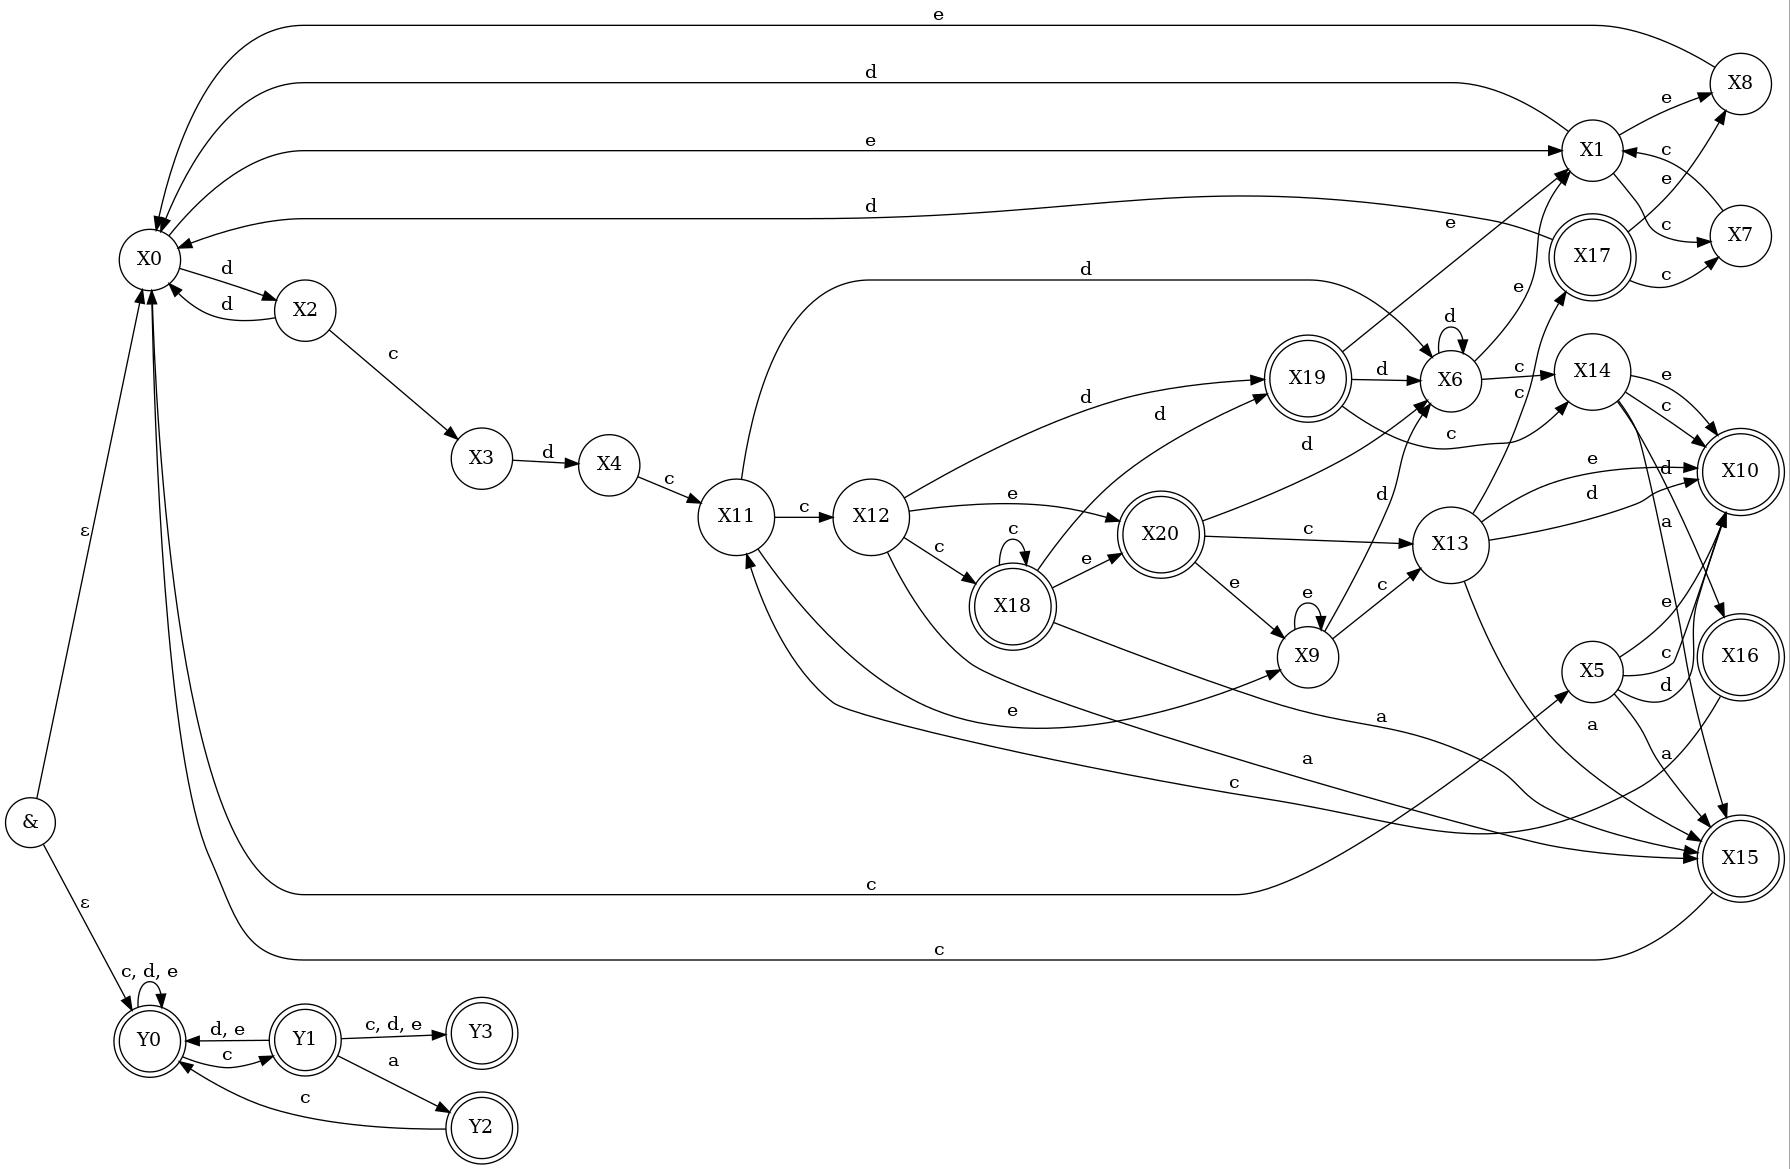
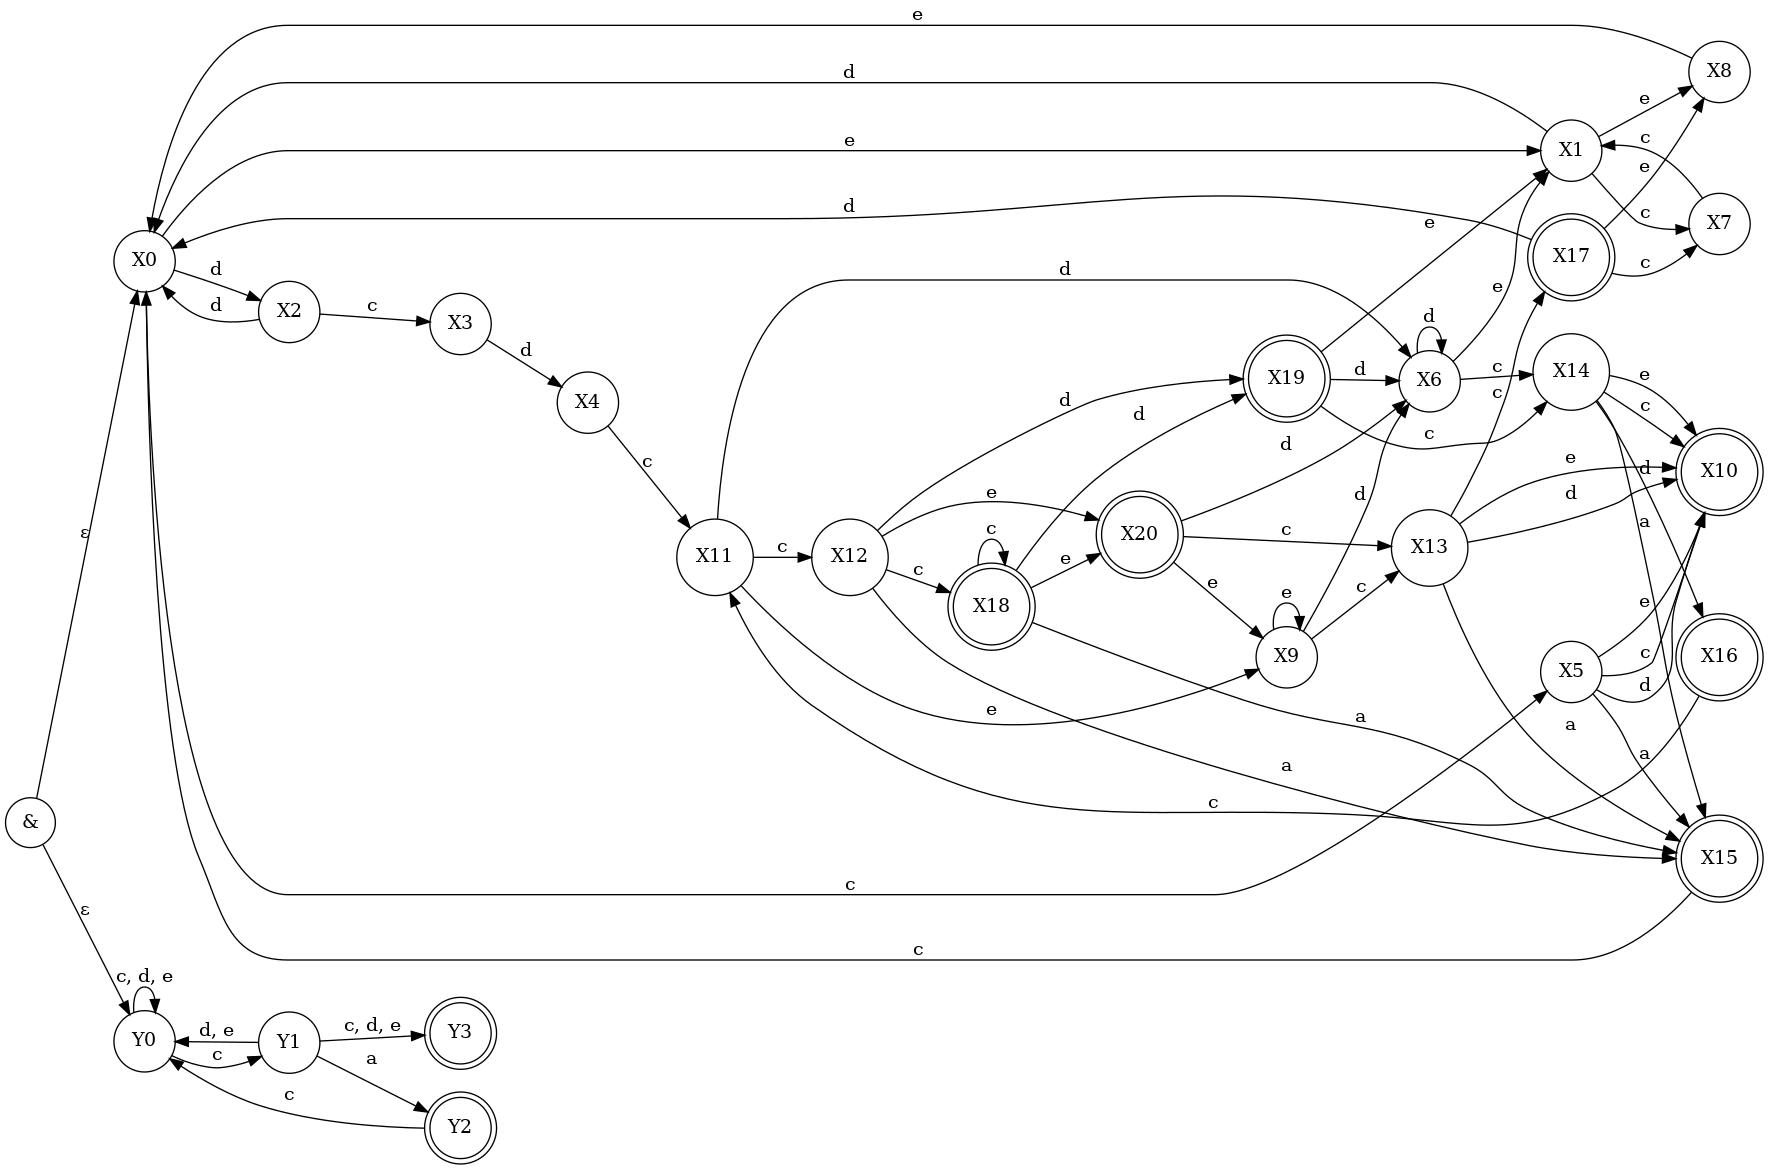
fixed

diff --git a/lab2/README.md b/lab2/README.md
@@ -79,7 +79,7 @@
 # ПКА2
 
 Заметим, что все буквы "a" кроме последней должны быть в конструкции "cac".  
-ПКА1 представлен на картинке pka2.jpg
+ПКА2 представлен на картинке pka2.jpg
 ![МалПКА](./img/pka2.jpg)
 
 # Расширенное регулярное выражение
